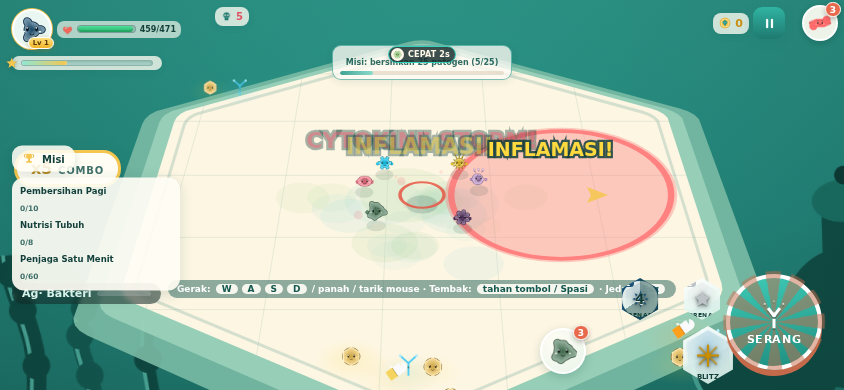
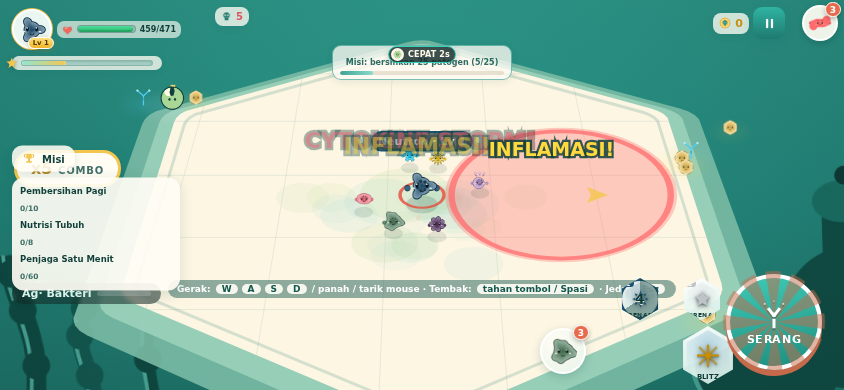
Improve character hit and skill VFX feedback

diff --git a/js/render/shape-renderer.js b/js/render/shape-renderer.js
@@ -237,6 +237,125 @@ export function drawHitSpark(ctx, fx, drawImageFn) {
 }
 
 /**
+ * Impact pulse: ring kompresi per hit landing + 6 garis radial pendek.
+ * Shape-only agar aman pada 100+ entity; memberi "landing moment" sebelum
+ * musuh mati, berbeda dari death-pop/kill-fx.
+ */
+export function drawImpactPulse(ctx, fx) {
+  const t = 1 - fx.life / fx.maxLife;
+  const alpha = Math.max(0, fx.life / fx.maxLife);
+  const big = fx.big || fx.crit;
+  const base = big ? 28 : 19;
+  const r = base * (0.55 + t * (big ? 1.4 : 1.05));
+  const col = fx.absorbed ? '#cfd8e3' : (fx.crit ? '#ff9f43' : fx.color);
+
+  // inner snap flash
+  ctx.globalAlpha = alpha * (big ? 0.42 : 0.26);
+  ctx.fillStyle = col;
+  ctx.beginPath();
+  ctx.arc(fx.x, fx.y, r * 0.34, 0, Math.PI * 2);
+  ctx.fill();
+
+  // expanding ring
+  ctx.globalAlpha = alpha * (big ? 0.95 : 0.72);
+  ctx.strokeStyle = col;
+  ctx.lineWidth = (big ? 4.5 : 3) * alpha + 0.8;
+  ctx.beginPath();
+  ctx.arc(fx.x, fx.y, r, 0, Math.PI * 2);
+  ctx.stroke();
+
+  // radial ticks — terbaca sebagai benturan, bukan sekadar glow statis
+  const ticks = big ? 8 : 6;
+  ctx.lineCap = 'round';
+  ctx.lineWidth = big ? 2.5 : 1.8;
+  for (let i = 0; i < ticks; i++) {
+    const a = fx.rot + (Math.PI * 2 * i) / ticks;
+    const r1 = r * 0.92;
+    const r2 = r * (1.22 + 0.24 * t);
+    ctx.beginPath();
+    ctx.moveTo(fx.x + Math.cos(a) * r1, fx.y + Math.sin(a) * r1);
+    ctx.lineTo(fx.x + Math.cos(a) * r2, fx.y + Math.sin(a) * r2);
+    ctx.stroke();
+  }
+  ctx.globalAlpha = 1;
+}
+
+/**
+ * Skill charge micro-buildup: cincin mengecil ke badan hero dan arc berputar.
+ * Efek ini menggantikan kebutuhan frame tambahan karena aset sekarang hanya
+ * punya 1 idle PNG + 1 attack PNG per hero.
+ */
+export function drawAbilityCharge(ctx, fx) {
+  const t = 1 - fx.life / fx.maxLife;
+  const alpha = Math.max(0, fx.life / fx.maxLife);
+  const r = fx.radius * (1.08 - t * 0.42);
+  const col = fx.color || '#ffd93d';
+  const pulse = 0.5 + 0.5 * Math.sin((t * 18 + fx.seed) * Math.PI);
+
+  // soft aura menuju pusat
+  const g = ctx.createRadialGradient(fx.x, fx.y, 0, fx.x, fx.y, r * 1.9);
+  g.addColorStop(0, colorWithAlpha(col, (fx.ult ? 0.24 : 0.16) * alpha));
+  g.addColorStop(1, colorWithAlpha(col, 0));
+  ctx.fillStyle = g;
+  ctx.beginPath();
+  ctx.arc(fx.x, fx.y, r * 1.9, 0, Math.PI * 2);
+  ctx.fill();
+
+  // ring kontraksi
+  ctx.globalAlpha = alpha * (fx.ult ? 0.95 : 0.78);
+  ctx.strokeStyle = col;
+  ctx.lineWidth = fx.ult ? 4 : 2.6;
+  ctx.setLineDash([10, 7]);
+  ctx.beginPath();
+  ctx.arc(fx.x, fx.y, r, fx.seed + t * 3.2, fx.seed + t * 3.2 + Math.PI * 1.72);
+  ctx.stroke();
+  ctx.setLineDash([]);
+
+  // inti putih kecil saat hampir trigger
+  ctx.globalAlpha = alpha * pulse * (fx.ult ? 0.55 : 0.38);
+  ctx.fillStyle = '#ffffff';
+  ctx.beginPath();
+  ctx.arc(fx.x, fx.y, Math.max(2, r * 0.12), 0, Math.PI * 2);
+  ctx.fill();
+  ctx.globalAlpha = 1;
+}
+
+/** Skill payoff: cincin ekspansi + rays setelah skill aktif terpicu. */
+export function drawAbilityPayoff(ctx, fx) {
+  const t = 1 - fx.life / fx.maxLife;
+  const alpha = Math.max(0, fx.life / fx.maxLife);
+  const col = fx.color || '#ffd93d';
+  const r = fx.radius * (0.25 + t * 0.92);
+
+  ctx.globalAlpha = alpha * (fx.ult ? 0.86 : 0.6);
+  ctx.strokeStyle = col;
+  ctx.lineWidth = (fx.ult ? 7 : 4) * alpha + 1;
+  ctx.beginPath();
+  ctx.arc(fx.x, fx.y, r, 0, Math.PI * 2);
+  ctx.stroke();
+
+  const rays = fx.ult ? 12 : 8;
+  ctx.lineCap = 'round';
+  ctx.lineWidth = fx.ult ? 3 : 2;
+  for (let i = 0; i < rays; i++) {
+    const a = fx.seed + (Math.PI * 2 * i) / rays + t * (fx.ult ? 0.8 : 0.35);
+    const r1 = r * 0.58;
+    const r2 = r * (0.92 + 0.16 * alpha);
+    ctx.beginPath();
+    ctx.moveTo(fx.x + Math.cos(a) * r1, fx.y + Math.sin(a) * r1);
+    ctx.lineTo(fx.x + Math.cos(a) * r2, fx.y + Math.sin(a) * r2);
+    ctx.stroke();
+  }
+
+  ctx.globalAlpha = alpha * (fx.ult ? 0.22 : 0.13);
+  ctx.fillStyle = col;
+  ctx.beginPath();
+  ctx.arc(fx.x, fx.y, r * 0.72, 0, Math.PI * 2);
+  ctx.fill();
+  ctx.globalAlpha = 1;
+}
+
+/**
  * Panah penunjuk arah boss di tepi layar bila boss di luar pandangan.
  * camX/camY = posisi kamera; w/h = ukuran viewport CSS.
  */

diff --git a/js/core/game.js b/js/core/game.js
@@ -69,7 +69,7 @@ import { drawBackground, drawArena3D, setArenaPalette } from '../render/backgrou
 import { drawNestHint,
   drawProjectile, drawParticle, drawPulseGlow, drawHealthBar, drawSwipeArc,
   drawBlastRing, drawTelegraph, drawJoystick, drawMinimap, drawDamageNumber, drawHitSpark,
-  drawKillFx,
+  drawImpactPulse, drawAbilityCharge, drawAbilityPayoff, drawKillFx,
 } from '../render/shape-renderer.js';
 import { drawSprite } from '../render/sprite-loader.js';
 import { updateHUD, getMinimapContext, showAnnounce } from '../ui/screens/hud-screen.js';
@@ -991,13 +991,34 @@ export const game = {
   },
 
   /**
-   * Feedback visual per hit: bintang aset fx_hit.png + angka damage mengambang.
+   * Feedback visual per hit: flash sprite + spark + impact pulse + angka.
+   * Kill tetap punya death-pop sendiri; hit biasa kini dapat micro-shake
+   * ter-throttle supaya landing terasa tanpa membuat kamera mual di wave padat.
    */
   spawnHitFeedback(enemy, damage, died, crit = false) {
     const run = this.run;
     const gf = getGameFeel();
     tagOnHit(enemy); // R6 Modul D: setiap hit hero menandai musuh (opsonisasi)
+    const absorbed = !!enemy.lastHitAbsorbed;
+    if (crit && enemy.hitFlash !== undefined) enemy.hitFlash = Math.max(enemy.hitFlash, 0.18);
     run.effects.spawnSpark(enemy.x, enemy.y - enemy.radius * 0.3, died || crit || enemy.isBoss);
+    run.effects.spawnImpact(enemy.x, enemy.y - enemy.radius * 0.18, absorbed ? '#cfd8e3' : (crit ? gf.crit.color : (enemy.def.color || '#ffffff')), {
+      big: died || crit || enemy.isBoss,
+      crit,
+      absorbed,
+    });
+
+    // Micro shake khusus hit yang BELUM kill. Kill/elite/boss tetap ditangani
+    // di onEnemyKilled agar intensitasnya tidak dobel.
+    if (!died && !absorbed && run.camera && gf.shake) {
+      const now = run.time || 0;
+      const throttle = gf.shake.hitThrottleSec ?? 0.055;
+      if (now - (run.lastHitShakeAt ?? -999) >= throttle) {
+        run.lastHitShakeAt = now;
+        run.camera.addShake(crit ? (gf.shake.critHit ?? 0.09) : (gf.shake.hit ?? 0.035));
+      }
+    }
+
     // V2 Phase 1: ukuran angka mengikuti besaran damage; crit = oranye & lebih besar
     const dn = gf.damageNumber;
     let size = dn.base + Math.min(dn.maxBonus, damage * dn.perDamage);
@@ -2112,6 +2133,9 @@ export const game = {
       if (fx.type === 'swipe') drawSwipeArc(ctx, fx);
       else if (fx.type === 'blast') drawBlastRing(ctx, fx);
       else if (fx.type === 'spark') drawHitSpark(ctx, fx, drawImageAt);
+      else if (fx.type === 'impact') drawImpactPulse(ctx, fx);
+      else if (fx.type === 'abilityCharge') drawAbilityCharge(ctx, fx, time);
+      else if (fx.type === 'abilityPayoff') drawAbilityPayoff(ctx, fx, time);
       else if (fx.type === 'killfx') drawKillFx(ctx, fx, time);
       else if (fx.type === 'killpop') {
         // V2 Phase 1 death pop: sprite musuh membesar 1→scaleTo lalu memudar

diff --git a/js/systems/effects-system.js b/js/systems/effects-system.js
@@ -5,7 +5,9 @@
  */
 
 const MAX_PARTICLES = 400;
-const MAX_EFFECTS = 80;
+// Naik tipis karena setiap hit kini punya impact pulse murah (shape-only),
+// tetap di-cap agar wave padat tidak menekan GC/frame budget.
+const MAX_EFFECTS = 110;
 const MAX_NUMBERS = 40;
 
 export class EffectsSystem {
@@ -86,6 +88,62 @@ export class EffectsSystem {
   spawnSpark(x, y, big = false) {
     if (this.effects.length >= MAX_EFFECTS) this.effects.shift();
     this.effects.push({ type: 'spark', x, y, rot: Math.random() * Math.PI, big, life: 0.16, maxLife: 0.16 });
+  }
+
+  /**
+   * Impact pulse per hit landing: ring + garis radial shape-only.
+   * Tujuan: hit biasa tetap terasa tanpa menunggu kill-pop. Murah untuk
+   * frame budget karena tidak menambah sprite baru atau partikel per objek.
+   */
+  spawnImpact(x, y, color = '#ffffff', opts = {}) {
+    if (this.effects.length >= MAX_EFFECTS) this.effects.shift();
+    const big = !!opts.big;
+    const life = big ? 0.24 : 0.18;
+    this.effects.push({
+      type: 'impact', x, y, color,
+      big,
+      crit: !!opts.crit,
+      absorbed: !!opts.absorbed,
+      rot: opts.angle ?? Math.random() * Math.PI * 2,
+      life,
+      maxLife: life,
+    });
+  }
+
+  /**
+   * Micro-buildup skill aktif: ring kontraksi + glyph arc di badan hero.
+   * Sprite hero hanya punya 1 frame idle + 1 frame attack; buildup dibuat
+   * procedural agar tidak berpura-pura ada sprite sheet yang belum diproduksi.
+   */
+  spawnAbilityCharge(x, y, color = '#ffd93d', opts = {}) {
+    if (this.effects.length >= MAX_EFFECTS) this.effects.shift();
+    const ult = !!opts.ult;
+    const life = ult ? 0.3 : 0.22;
+    this.effects.push({
+      type: 'abilityCharge', x, y, color,
+      ult,
+      radius: opts.radius || (ult ? 78 : 52),
+      seed: Math.random() * Math.PI * 2,
+      life,
+      maxLife: life,
+    });
+  }
+
+  /** Payoff skill aktif: ring ekspansi + burst kecil di titik cast. */
+  spawnAbilityPayoff(x, y, color = '#ffd93d', opts = {}) {
+    if (this.effects.length >= MAX_EFFECTS) this.effects.shift();
+    const ult = !!opts.ult;
+    const life = ult ? 0.42 : 0.28;
+    this.effects.push({
+      type: 'abilityPayoff', x, y, color,
+      ult,
+      kind: opts.kind || 'skill',
+      radius: opts.radius || (ult ? 112 : 72),
+      seed: Math.random() * Math.PI * 2,
+      life,
+      maxLife: life,
+    });
+    this.spawnBurst(x, y, color, ult ? 18 : 8, ult ? 260 : 150, ult ? 4.8 : 3.2);
   }
 
   /**

diff --git a/js/systems/skill-system.js b/js/systems/skill-system.js
@@ -51,7 +51,14 @@ export class SkillSystem {
     if (!s || s.cdLeft > 0) return false;
     s.cdLeft = s.def.cooldown;
     const run = ctx.game.run;
+    const primaryKind = (s.def.effects && s.def.effects[0] && s.def.effects[0].kind) || 'skill';
+    const castColor = s.def.color || ctx.player.heroDef?.color || '#ffd93d';
+    // Frame budget aset: setiap hero hanya punya 1 idle PNG + 1 attack PNG.
+    // Jadi buildup/payoff dibuat sebagai VFX shape procedural singkat, bukan
+    // berpura-pura ada sprite-sheet charge yang belum diproduksi tim art.
+    ctx.effects?.spawnAbilityCharge(ctx.player.x, ctx.player.y, castColor, { ult: s.ult, kind: primaryKind });
     for (const fx of s.def.effects) this.#apply(fx, ctx, run);
+    ctx.effects?.spawnAbilityPayoff(ctx.player.x, ctx.player.y, castColor, { ult: s.ult, kind: primaryKind });
     // R7 Modul E: skill gerak/buff-diri meninggalkan jejak sinyal kemotaksis
     if (s.def.effects.some((fx) => fx.kind === 'dash' || fx.kind === 'buff_self')) {
       chemoActivate(ctx.game);
